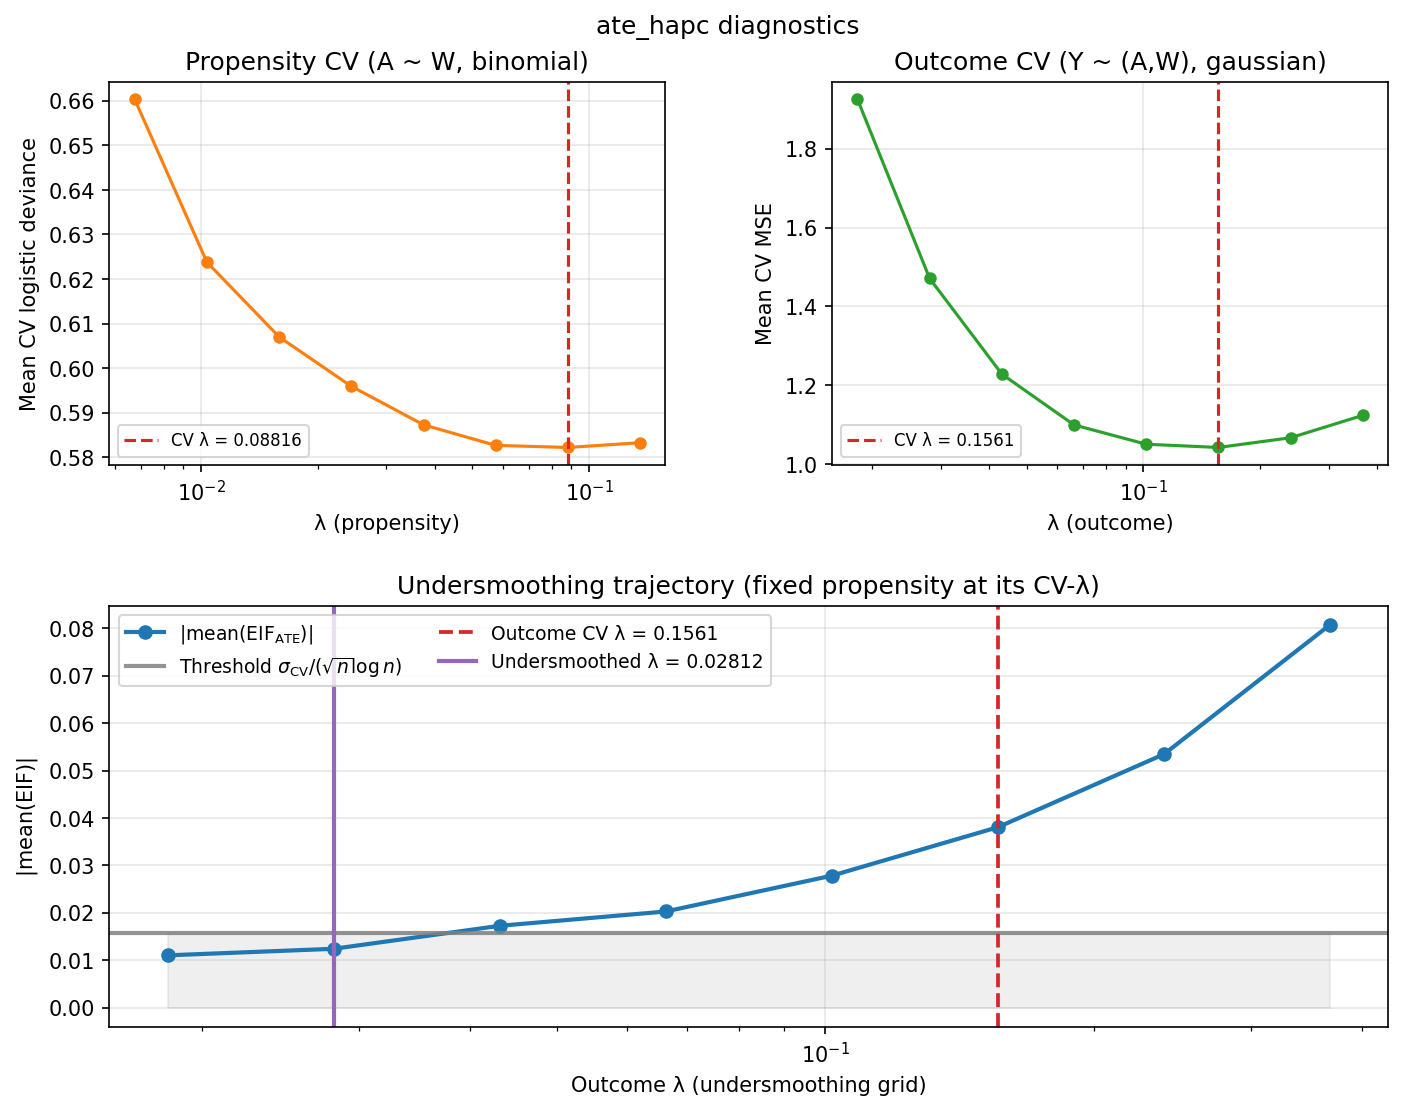
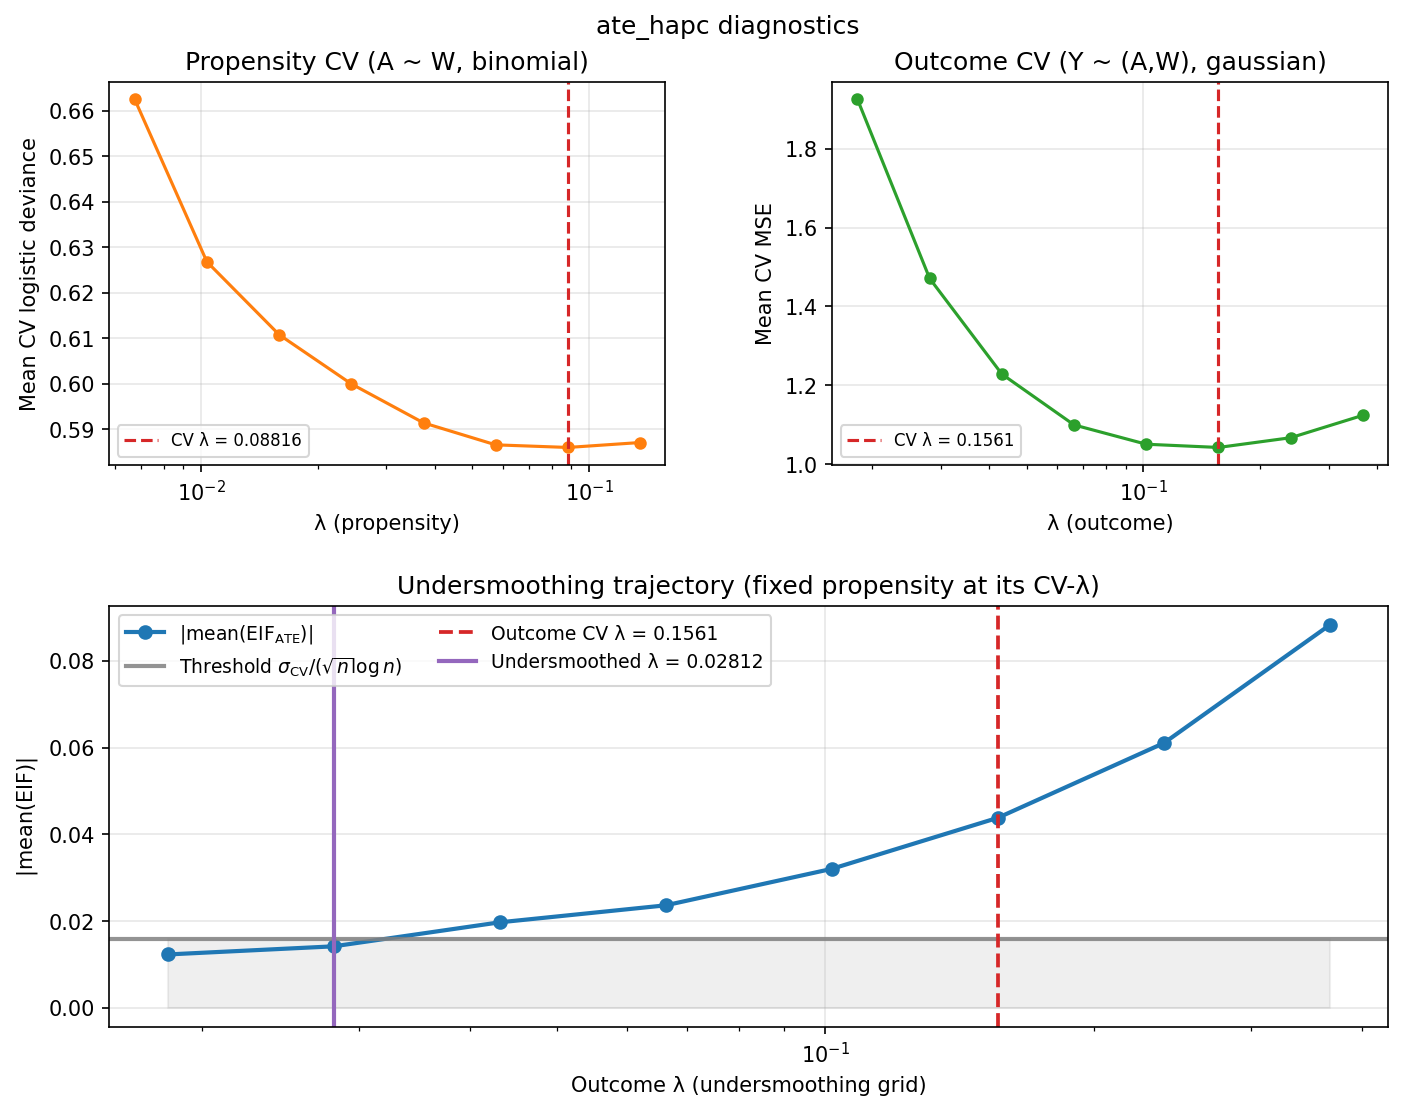
solved binomial intercept problem

diff --git a/tests/test_ate_hapc_diagnostics_example.py b/tests/test_ate_hapc_diagnostics_example.py
@@ -51,9 +51,9 @@ GRID_LENGTH_OUT = 8
 FIGURE_NAME = "ate_hapc_diagnostics_demo.png"
 
 # Pinned outputs (``alpha=0.05``, ``npcs = n - 1``, current C++/Python stack)
-_EXPECTED_ESTIMATE = 0.07963839541495547
-_EXPECTED_LOWER = -0.048798044399148574
-_EXPECTED_UPPER = 0.2080748352290595
+_EXPECTED_ESTIMATE = 0.07790009282426053
+_EXPECTED_LOWER = -0.050705979103681936
+_EXPECTED_UPPER = 0.206506164752203
 
 
 def _expit(x: np.ndarray) -> np.ndarray:
